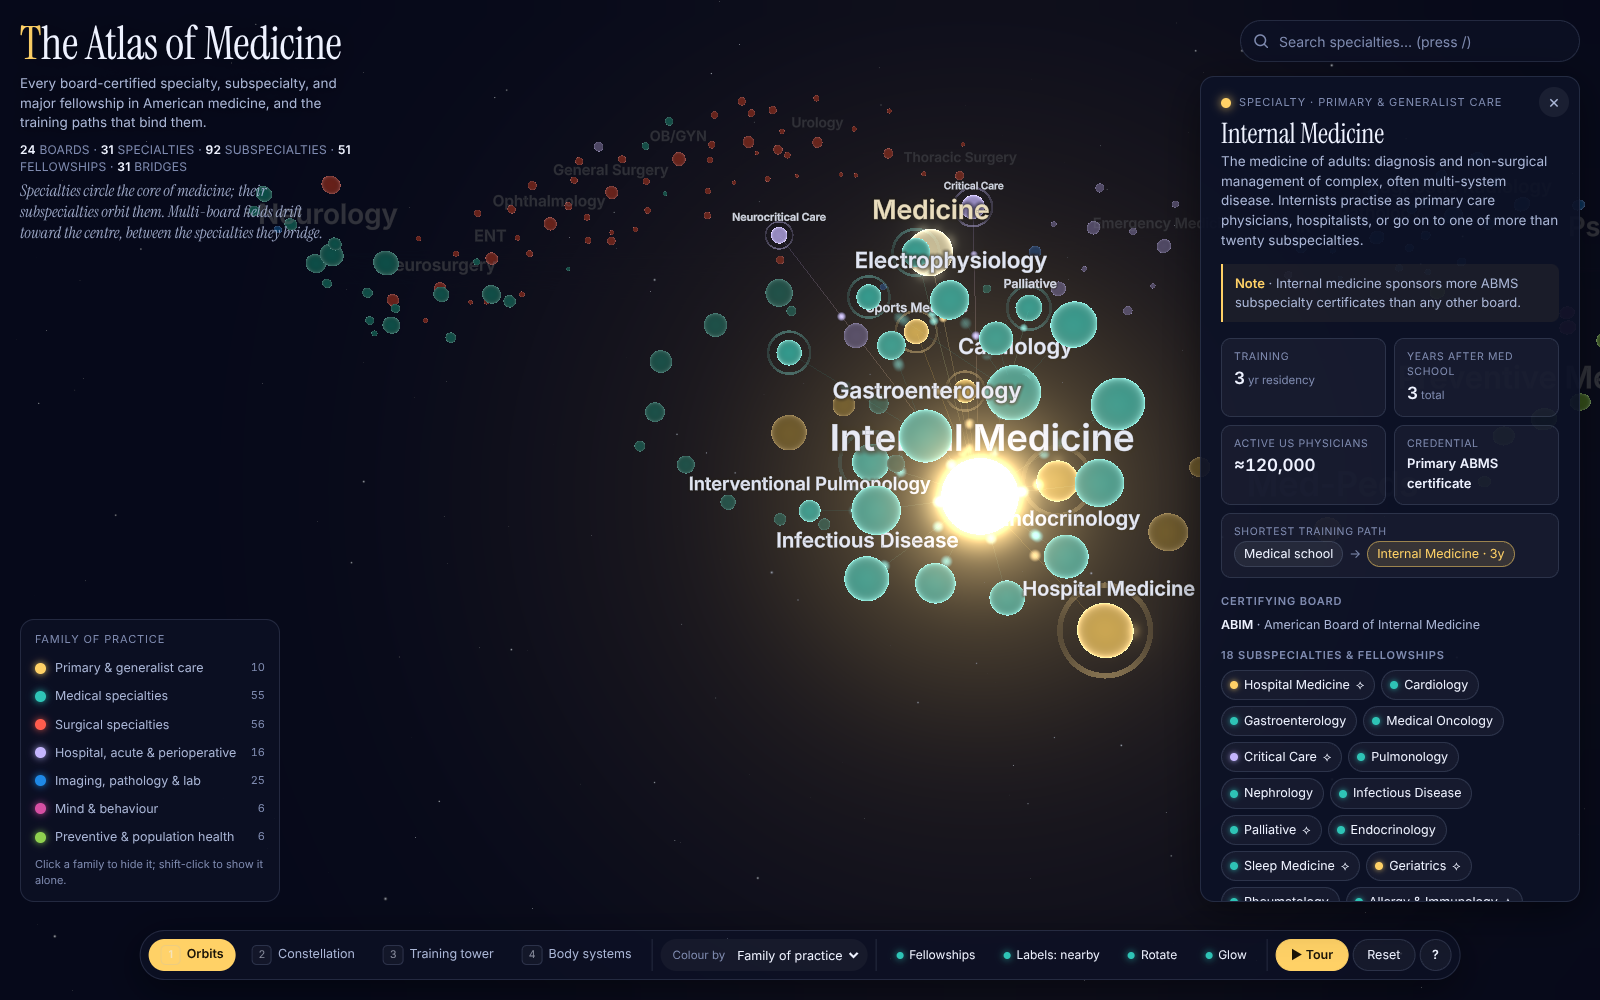
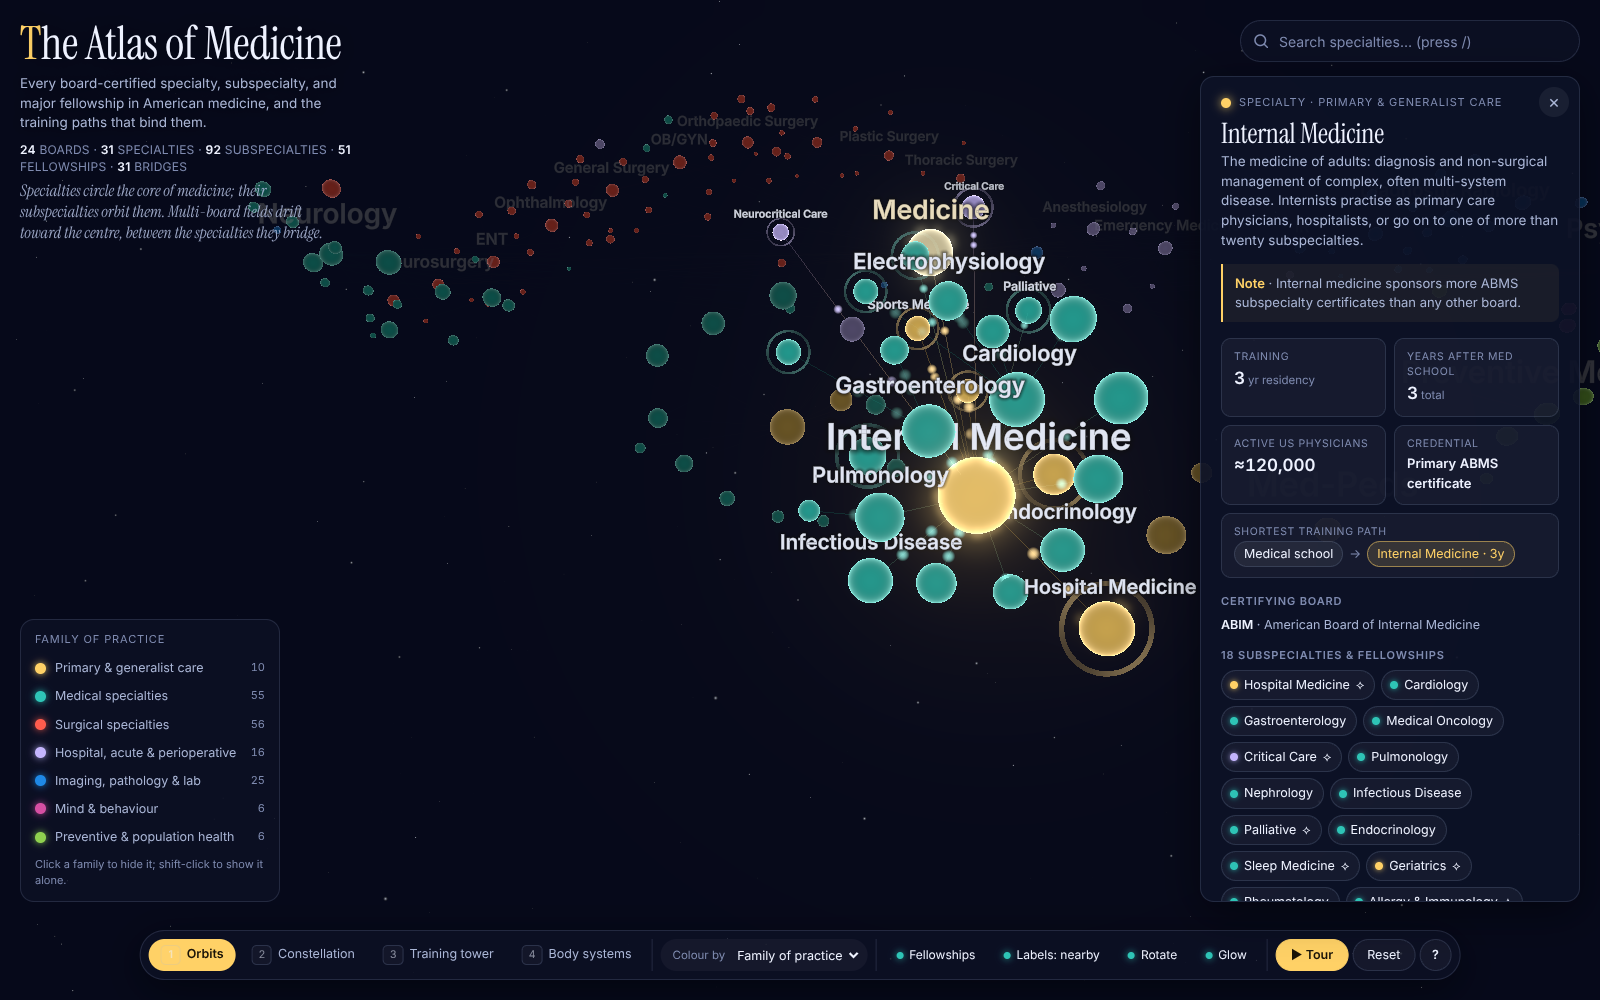
Tone down the selected-node glare
Claude-Session: https://claude.ai/code/session_01DjUmpmNVQJsZ8J3QCYK5ji

diff --git a/medical-specialties/src/scene/nodes.ts b/medical-specialties/src/scene/nodes.ts
@@ -40,7 +40,7 @@ const sphereFrag = /* glsl */ `
     vec3 rim = (vColor * 1.25 + vec3(0.35)) * fres;
     vec3 col = core + rim;
     // Highlight: brighten everything and whiten the core.
-    col += (vColor * 0.4 + vec3(0.1)) * vGlow * (0.8 + 0.2 * sin(uTime * 3.0));
+    col += (vColor * 0.25 + vec3(0.05)) * vGlow * (0.8 + 0.2 * sin(uTime * 3.0));
     col *= mix(0.16, 1.0, vEmph);
     gl_FragColor = vec4(col, 1.0);
   }
@@ -102,7 +102,7 @@ const haloFrag = /* glsl */ `
     float d = length(gl_PointCoord - 0.5) * 2.0;
     if (d > 1.0) discard;
     float a = exp(-d * d * 5.0) * (1.0 - smoothstep(0.6, 1.0, d));
-    a *= (0.28 + vGlow * 0.5) * vAlpha;
+    a *= (0.28 + vGlow * 0.3) * vAlpha;
     gl_FragColor = vec4(vColor * a, a);
   }
 `;
@@ -252,7 +252,7 @@ export class NodeCloud {
       this.haloPos.array[i * 3] = pos[i * 3];
       this.haloPos.array[i * 3 + 1] = pos[i * 3 + 1];
       this.haloPos.array[i * 3 + 2] = pos[i * 3 + 2];
-      this.haloSize.array[i] = vis < 0.02 ? 0 : nodes[i].radius * (3.4 + this.glowCurrent[i] * 2.2) * vis;
+      this.haloSize.array[i] = vis < 0.02 ? 0 : nodes[i].radius * (3.4 + this.glowCurrent[i] * 1.2) * vis;
       this.haloColor.array[i * 3] = this.colorCurrent[i * 3];
       this.haloColor.array[i * 3 + 1] = this.colorCurrent[i * 3 + 1];
       this.haloColor.array[i * 3 + 2] = this.colorCurrent[i * 3 + 2];
